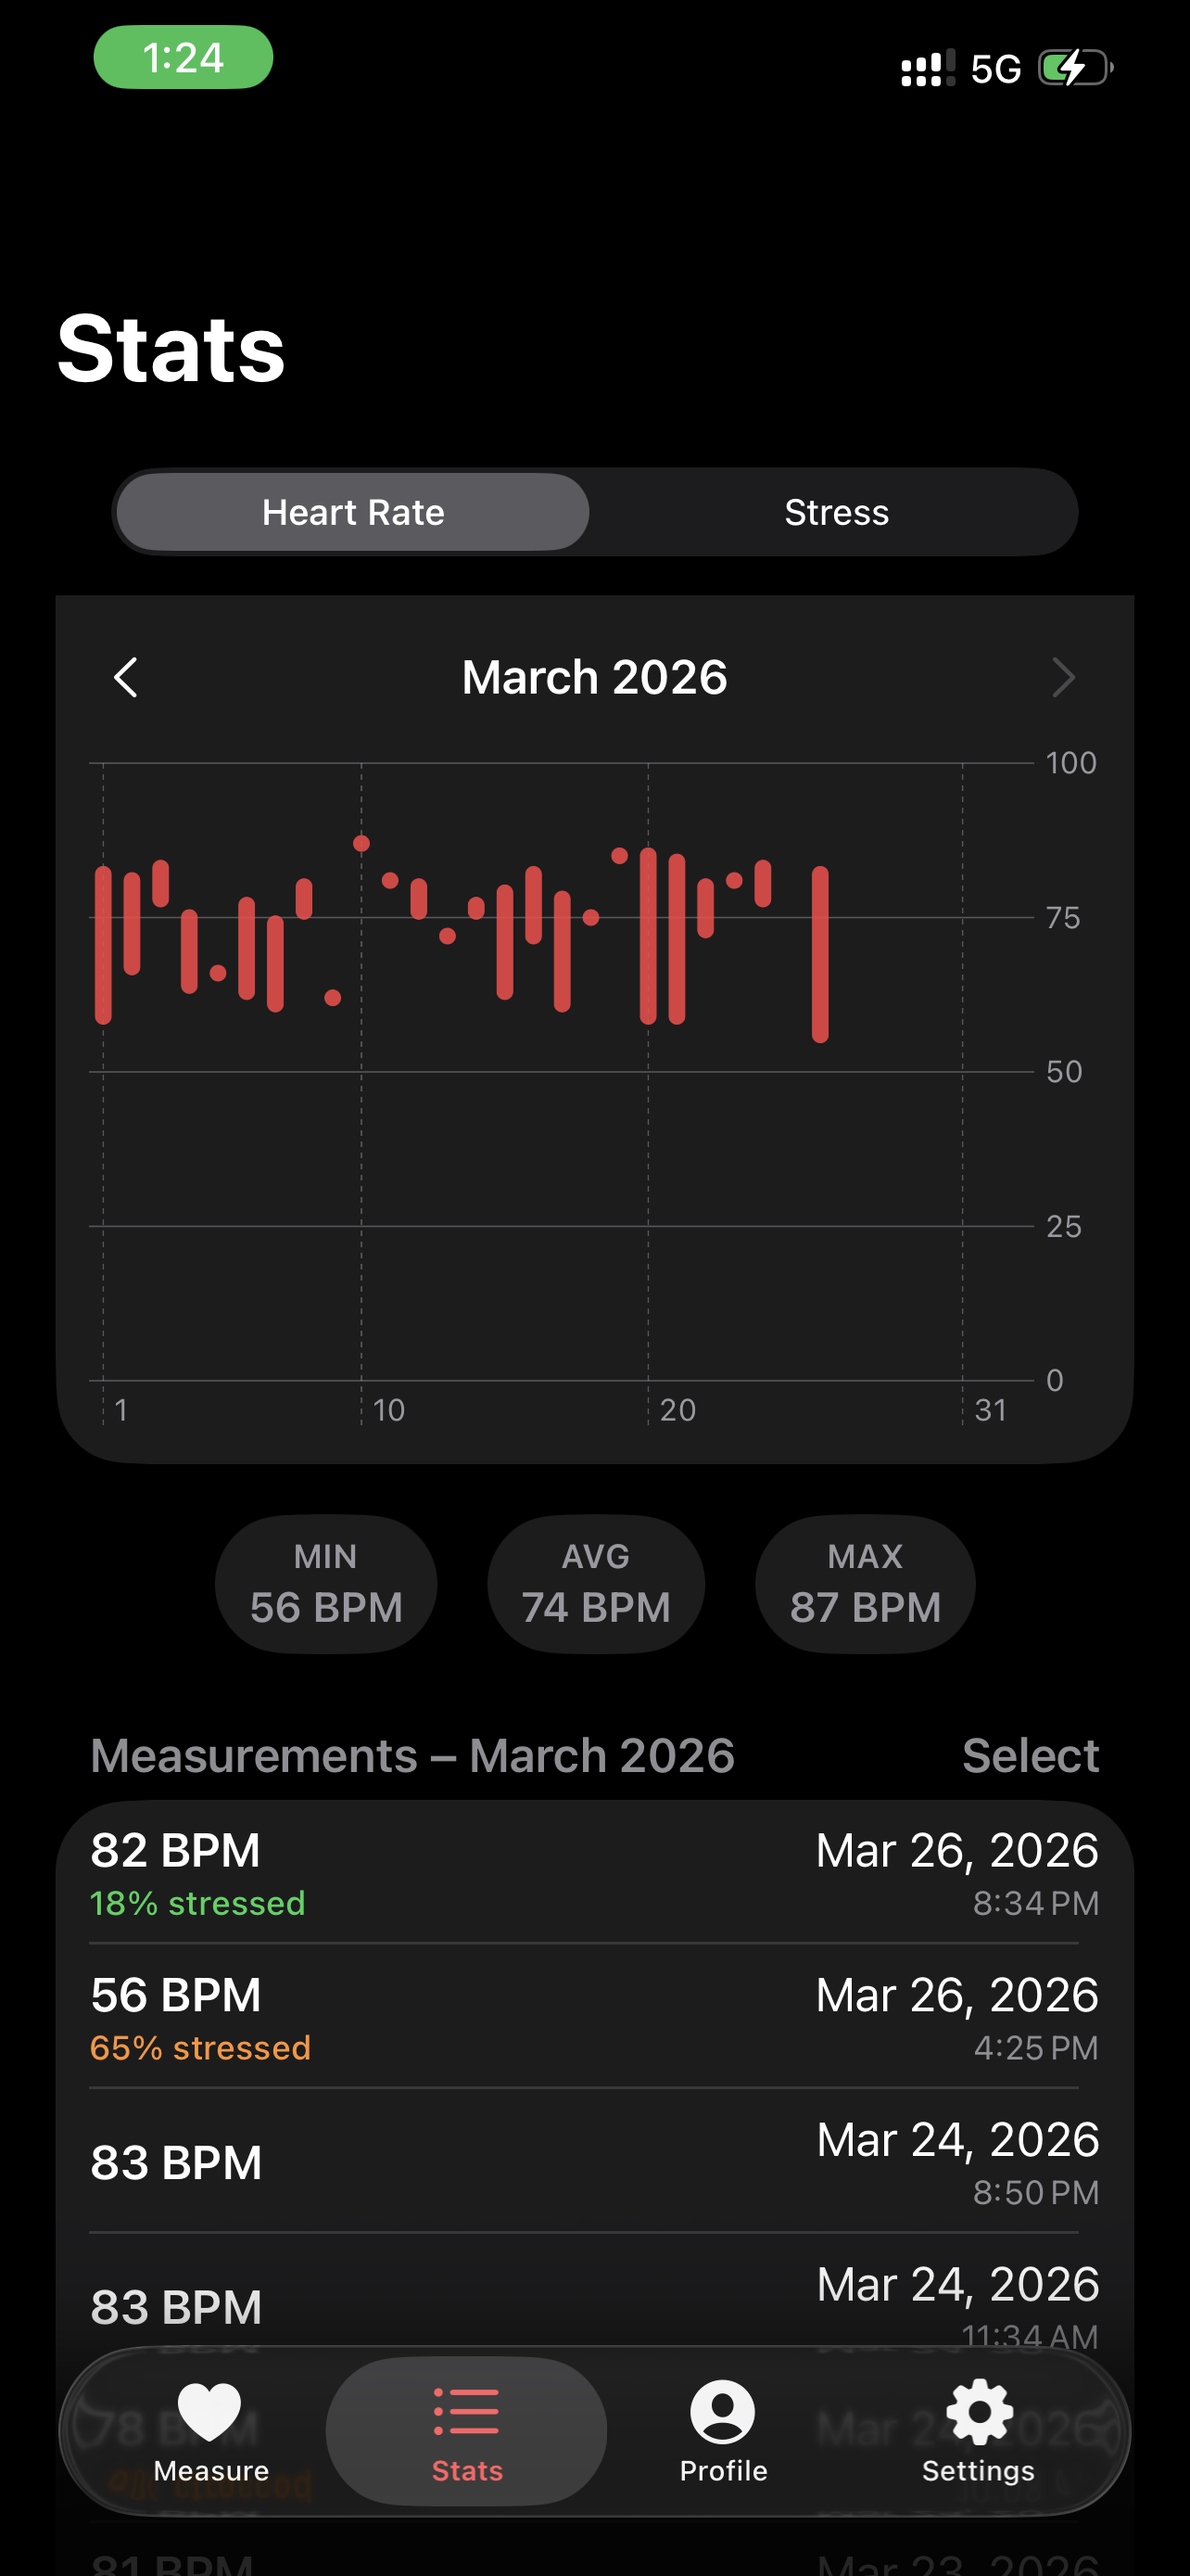
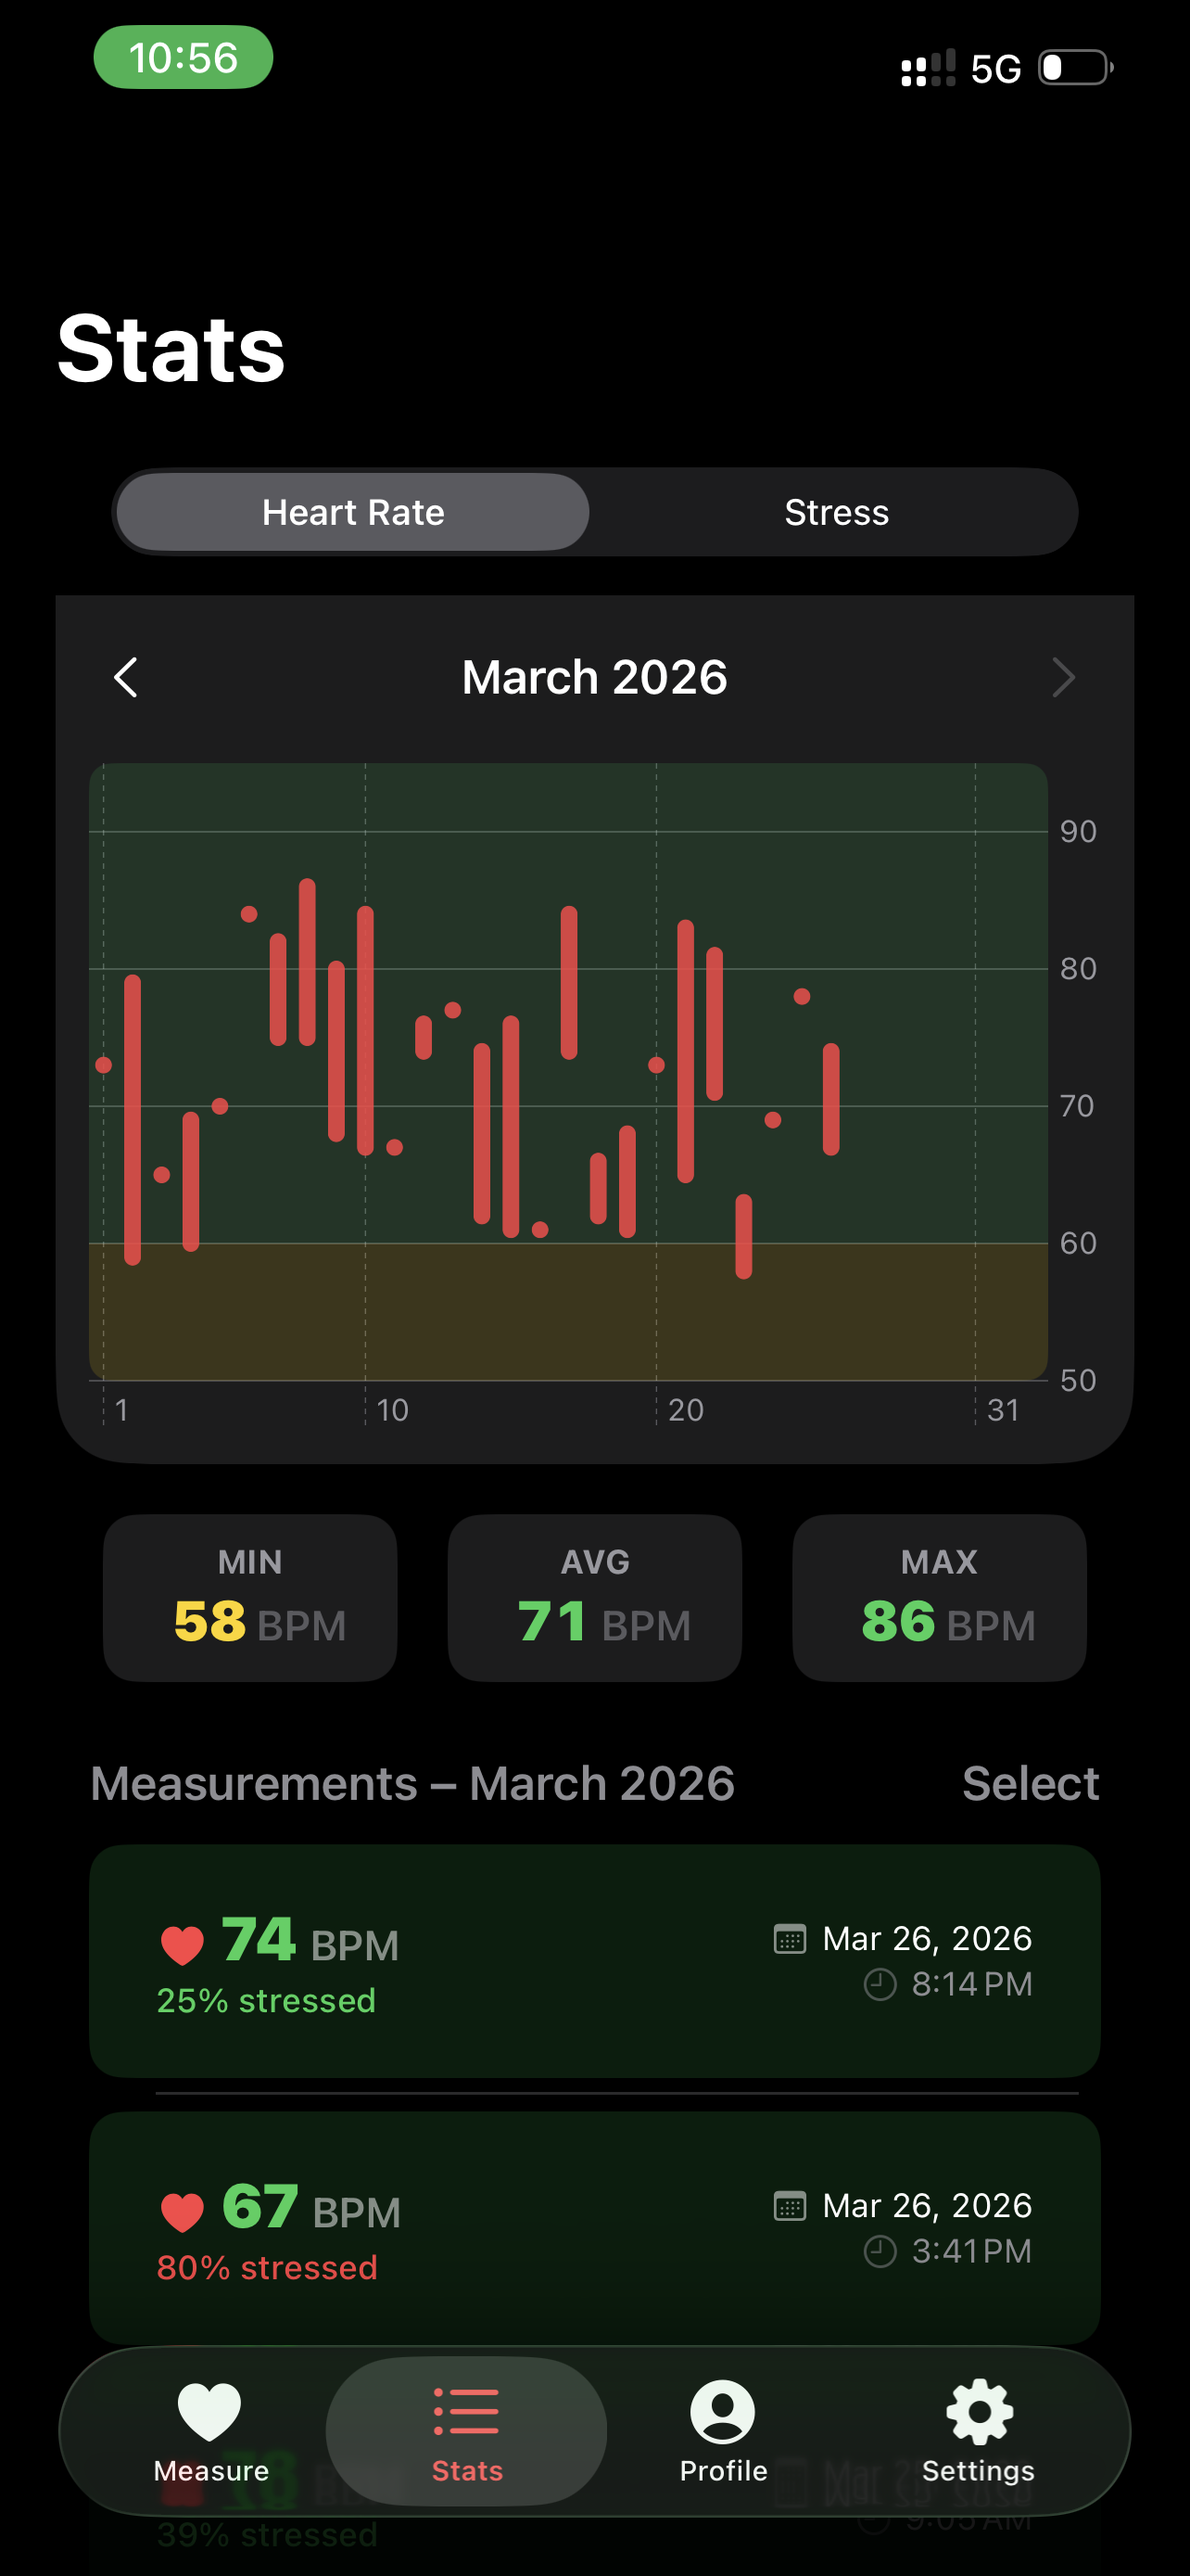
Redesign UI - measurement cards and graph

diff --git a/Heart Rate Monitor/Views/HistoryView.swift b/Heart Rate Monitor/Views/HistoryView.swift
@@ -320,8 +320,17 @@ struct HistoryView: View {
                                     }
 
                                     VStack(alignment: .leading, spacing: 2) {
-                                        Text("\(entry.bpm) BPM")
-                                            .fontWeight(.semibold)
+                                        HStack(alignment: .firstTextBaseline, spacing: 4) {
+                                            Image(systemName: "heart.fill")
+                                                .font(.subheadline.weight(.bold))
+                                                .foregroundStyle(.red)
+                                            Text("\(entry.bpm)")
+                                                .font(.title2.weight(.black))
+                                                .foregroundStyle(heartRateValueColor(for: entry.bpm))
+                                            Text("BPM")
+                                                .font(.subheadline.weight(.semibold))
+                                                .foregroundStyle(.secondary)
+                                        }
                                         if let stress = entry.stressLevel {
                                             Text(stressDisplayText(for: stress))
                                                 .font(.caption)
@@ -331,12 +340,31 @@ struct HistoryView: View {
                                     }
                                     Spacer(minLength: 8)
                                     VStack(alignment: .trailing, spacing: 2) {
-                                        Text(entry.date, format: .dateTime.month(.abbreviated).day().year())
-                                        Text(entry.date, style: .time)
-                                            .foregroundColor(.gray)
-                                            .font(.caption)
+                                        HStack(spacing: 4) {
+                                            Image(systemName: "calendar")
+                                                .foregroundStyle(.secondary)
+                                            Text(entry.date, format: .dateTime.month(.abbreviated).day().year())
+                                        }
+                                        .font(.caption)
+
+                                        HStack(spacing: 4) {
+                                            Image(systemName: "clock")
+                                                .foregroundStyle(.secondary)
+                                            Text(entry.date, style: .time)
+                                        }
+                                        .font(.caption)
+                                        .foregroundColor(.gray)
                                     }
                                 }
+                                .padding(.vertical, 14)
+                                .padding(.horizontal, 24)
+                                .frame(maxWidth: .infinity, alignment: .leading)
+                                .frame(minHeight: 84)
+                                .background(
+                                    RoundedRectangle(cornerRadius: 12, style: .continuous)
+                                        .fill(heartRateBackgroundColor(for: entry.bpm))
+                                )
+                                .listRowBackground(Color.clear)
                                 .contentShape(Rectangle())
                                 .onTapGesture {
                                     if isSelectionMode {
@@ -510,6 +538,25 @@ private extension HistoryView {
         return stress
     }
 
+    func heartRateBandColor(for bpm: Int) -> Color {
+        switch bpm {
+        case 60...100:
+            return .green
+        case 50...59, 101...110:
+            return .yellow
+        default:
+            return .red
+        }
+    }
+
+    func heartRateValueColor(for bpm: Int) -> Color {
+        heartRateBandColor(for: bpm)
+    }
+
+    func heartRateBackgroundColor(for bpm: Int) -> Color {
+        heartRateBandColor(for: bpm).opacity(0.14)
+    }
+
     var measurementsHeaderTitle: String {
         let df = DateFormatter()
         df.dateFormat = "LLLL yyyy"
@@ -532,25 +579,134 @@ private extension HistoryView {
         return left...rightPad
     }
 
+    @ChartContentBuilder
+    func chartBackgroundZones(_ yDomain: ClosedRange<Double>) -> some ChartContent {
+        switch metricMode {
+        case .heartRate:
+            let low = yDomain.lowerBound
+            let high = yDomain.upperBound
+
+            let lowRedStart = low
+            let lowRedEnd = min(50.0, high)
+            if lowRedEnd > lowRedStart {
+                RectangleMark(
+                    xStart: .value("Start", chartXDomain.lowerBound),
+                    xEnd: .value("End", chartXDomain.upperBound),
+                    yStart: .value("Low red", lowRedStart),
+                    yEnd: .value("Low red top", lowRedEnd)
+                )
+                .foregroundStyle(Color.red.opacity(0.14))
+            }
+
+            let lowYellowStart = max(50.0, low)
+            let lowYellowEnd = min(60.0, high)
+            if lowYellowEnd > lowYellowStart {
+                RectangleMark(
+                    xStart: .value("Start", chartXDomain.lowerBound),
+                    xEnd: .value("End", chartXDomain.upperBound),
+                    yStart: .value("Low yellow", lowYellowStart),
+                    yEnd: .value("Low yellow top", lowYellowEnd)
+                )
+                .foregroundStyle(Color.yellow.opacity(0.14))
+            }
+
+            let greenStart = max(60.0, low)
+            let greenEnd = min(100.0, high)
+            if greenEnd > greenStart {
+                RectangleMark(
+                    xStart: .value("Start", chartXDomain.lowerBound),
+                    xEnd: .value("End", chartXDomain.upperBound),
+                    yStart: .value("Green", greenStart),
+                    yEnd: .value("Green top", greenEnd)
+                )
+                .foregroundStyle(Color.green.opacity(0.14))
+            }
+
+            let highYellowStart = max(100.0, low)
+            let highYellowEnd = min(110.0, high)
+            if highYellowEnd > highYellowStart {
+                RectangleMark(
+                    xStart: .value("Start", chartXDomain.lowerBound),
+                    xEnd: .value("End", chartXDomain.upperBound),
+                    yStart: .value("High yellow", highYellowStart),
+                    yEnd: .value("High yellow top", highYellowEnd)
+                )
+                .foregroundStyle(Color.yellow.opacity(0.14))
+            }
+
+            let highRedStart = max(110.0, low)
+            let highRedEnd = high
+            if highRedEnd > highRedStart {
+                RectangleMark(
+                    xStart: .value("Start", chartXDomain.lowerBound),
+                    xEnd: .value("End", chartXDomain.upperBound),
+                    yStart: .value("High red", highRedStart),
+                    yEnd: .value("High red top", highRedEnd)
+                )
+                .foregroundStyle(Color.red.opacity(0.14))
+            }
+        case .stress:
+            RectangleMark(
+                xStart: .value("Start", chartXDomain.lowerBound),
+                xEnd: .value("End", chartXDomain.upperBound),
+                yStart: .value("Green", 0),
+                yEnd: .value("Green top", 40)
+            )
+            .foregroundStyle(Color.green.opacity(0.14))
+
+            RectangleMark(
+                xStart: .value("Start", chartXDomain.lowerBound),
+                xEnd: .value("End", chartXDomain.upperBound),
+                yStart: .value("Yellow", 40),
+                yEnd: .value("Yellow top", 70)
+            )
+            .foregroundStyle(Color.yellow.opacity(0.14))
+
+            RectangleMark(
+                xStart: .value("Start", chartXDomain.lowerBound),
+                xEnd: .value("End", chartXDomain.upperBound),
+                yStart: .value("Red", 70),
+                yEnd: .value("Red top", 100)
+            )
+            .foregroundStyle(Color.red.opacity(0.14))
+        }
+    }
+
     @ViewBuilder
     func chartView() -> some View {
         let baseData: [DailyMetricRange] = dailyRangesForCurrentMonth
         let chartData: [DailyMetricRange] = baseData.filter { $0.min != 0 || $0.max != 0 }
+        let minDataValue = Double(chartData.map(\.min).min() ?? 50)
+        let maxDataValue = Double(chartData.map(\.max).max() ?? 100)
 
-        Chart(chartData) { day in
-            ChartBar(
-                day: day,
-                isSelected: isSelected(day),
-                hasSelection: selectedDay != nil,
-                labelProvider: { dayLabel(for: day.day) }
-            )
+        let heartRateLower = floor((minDataValue - 6.0) / 5.0) * 5.0
+        let heartRateUpper = ceil((maxDataValue + 8.0) / 5.0) * 5.0
+        let heartRateDomain: ClosedRange<Double> = heartRateLower...max(heartRateUpper, heartRateLower + 10.0)
+        let stressDomain: ClosedRange<Double> = 0...100
+
+        Chart {
+            chartBackgroundZones(metricMode == .heartRate ? heartRateDomain : stressDomain)
+
+            ForEach(chartData) { day in
+                ChartBar(
+                    day: day,
+                    isSelected: isSelected(day),
+                    hasSelection: selectedDay != nil,
+                    labelProvider: { dayLabel(for: day.day) }
+                )
+            }
         }
         .chartXScale(domain: chartXDomain)
+        .chartYScale(domain: metricMode == .heartRate ? heartRateDomain : stressDomain)
         .chartXAxis {
             monthlyXAxis()
         }
         .chartYAxis {
             AxisMarks(position: .trailing)
+        }
+        .chartPlotStyle { plotArea in
+            plotArea
+                .clipShape(RoundedRectangle(cornerRadius: 8, style: .continuous))
         }
         .chartOverlay { proxy in
             GeometryReader { _ in
@@ -600,13 +756,36 @@ private extension HistoryView {
     func statPillLarge(title: String, value: Int) -> some View {
         VStack(spacing: 2) {
             Text(title.uppercased())
-                .font(.caption.weight(.semibold))
-            Text("\(value) \(valueUnitLabel)")
-                .font(.subheadline.weight(.semibold))
+                .font(.caption.weight(.bold))
+            HStack(alignment: .firstTextBaseline, spacing: 3) {
+                Text("\(value)")
+                    .font(.title3.weight(.black))
+                    .monospacedDigit()
+                    .foregroundStyle(metricValueColor(for: value))
+                    .frame(width: 34, alignment: .trailing)
+                Text(valueUnitLabel)
+                    .font(.subheadline.weight(.semibold))
+                    .foregroundStyle(.secondary)
+            }
         }
-        .padding(.vertical, 8)
-        .padding(.horizontal, 12)
-        .background(Color(.secondarySystemGroupedBackground), in: Capsule())
+        .padding(.vertical, 10)
+        .padding(.horizontal, 14)
+        .frame(width: 106)
+        .background(
+            RoundedRectangle(cornerRadius: 12, style: .continuous)
+                .fill(Color(.secondarySystemGroupedBackground))
+        )
+    }
+
+    func metricValueColor(for value: Int) -> Color {
+        switch metricMode {
+        case .heartRate:
+            return heartRateBandColor(for: value)
+        case .stress:
+            if value >= 70 { return .red }
+            if value >= 40 { return .yellow }
+            return .green
+        }
     }
 }
 
